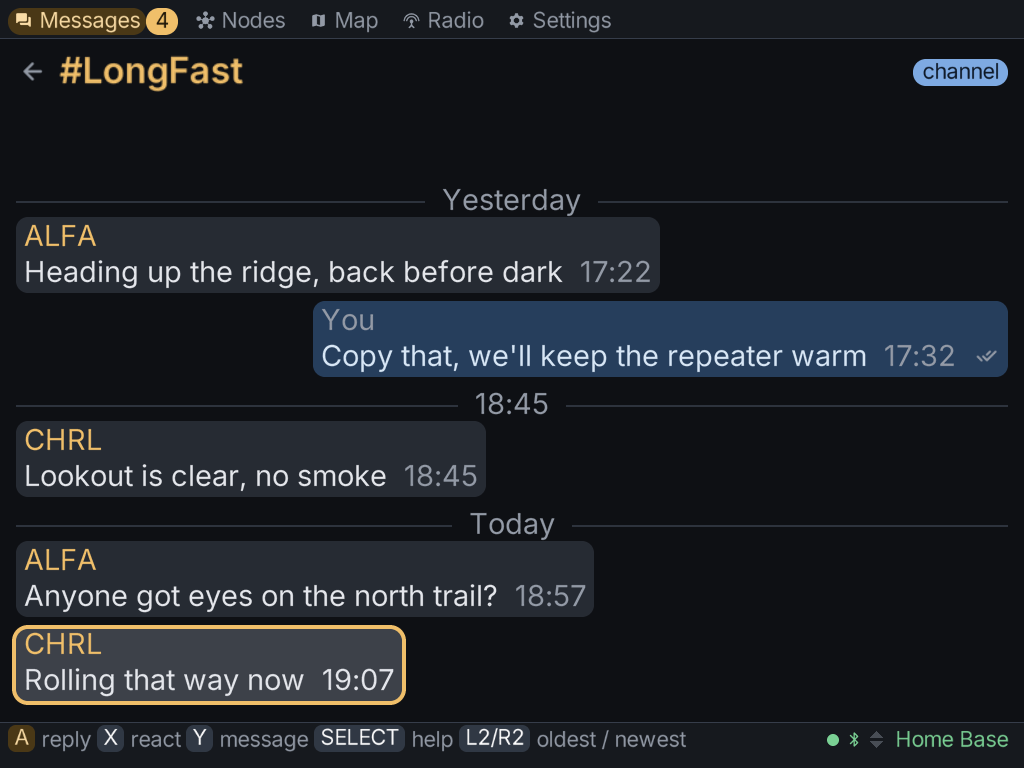
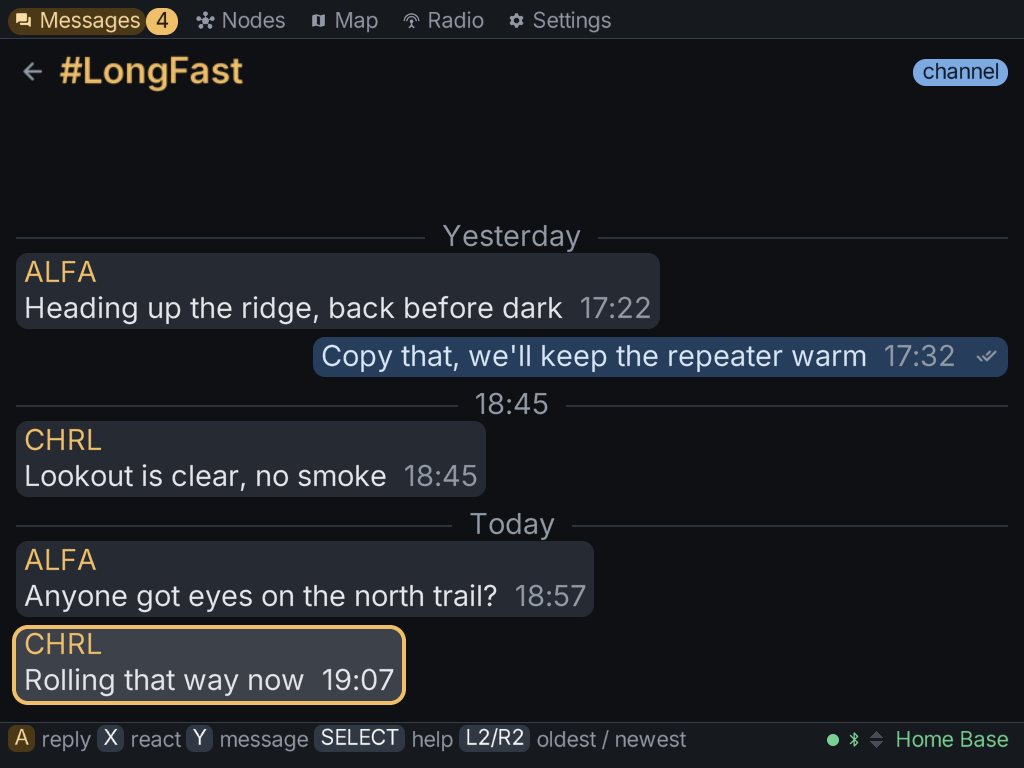
feat(ui): stop heading our own channel bubbles with "You"
In a channel thread every run of our own messages opened with a "You"
name line, though the bubble's side and fill already say whose it is. It
is now named only in All traffic, where it has to say where it went.
Alerts and sensor messages are still always headed.

Claude-Session: https://claude.ai/code/session_01HJvWtdsdExCMExyJqoL7X9

Changed region(s): [[0.0, 0.25, 1.0, 0.4375]]

diff --git a/src/ui/backends/fb_screens_messages.c b/src/ui/backends/fb_screens_messages.c
@@ -483,7 +483,11 @@ static void fb_thread_row_build(const struct mesh_ui_snapshot *snapshot,
     const bool labelled = message->kind != (uint8_t)MESH_MESSAGE_KIND_TEXT;
     row->bubble.alert = (message->kind == (uint8_t)MESH_MESSAGE_KIND_ALERT);
 
-    if (labelled || ((starts_run || force_name) && (names_needed || (outbound && nav->inbox)))) {
+    /* Ours is named only in all traffic, where it has to say where it went. In a channel the
+       bubble's side and fill already say "you", and "You" over it was the one name line on the
+       screen that told the reader nothing. */
+    const bool named = outbound ? nav->inbox : names_needed;
+    if (labelled || ((starts_run || force_name) && named)) {
         const char *peer = message->peer_name[0] != '\0'
                                ? message->peer_name
                                : inkcell_str(INKCELL_STR_COMMON_UNKNOWN_SHORT);
